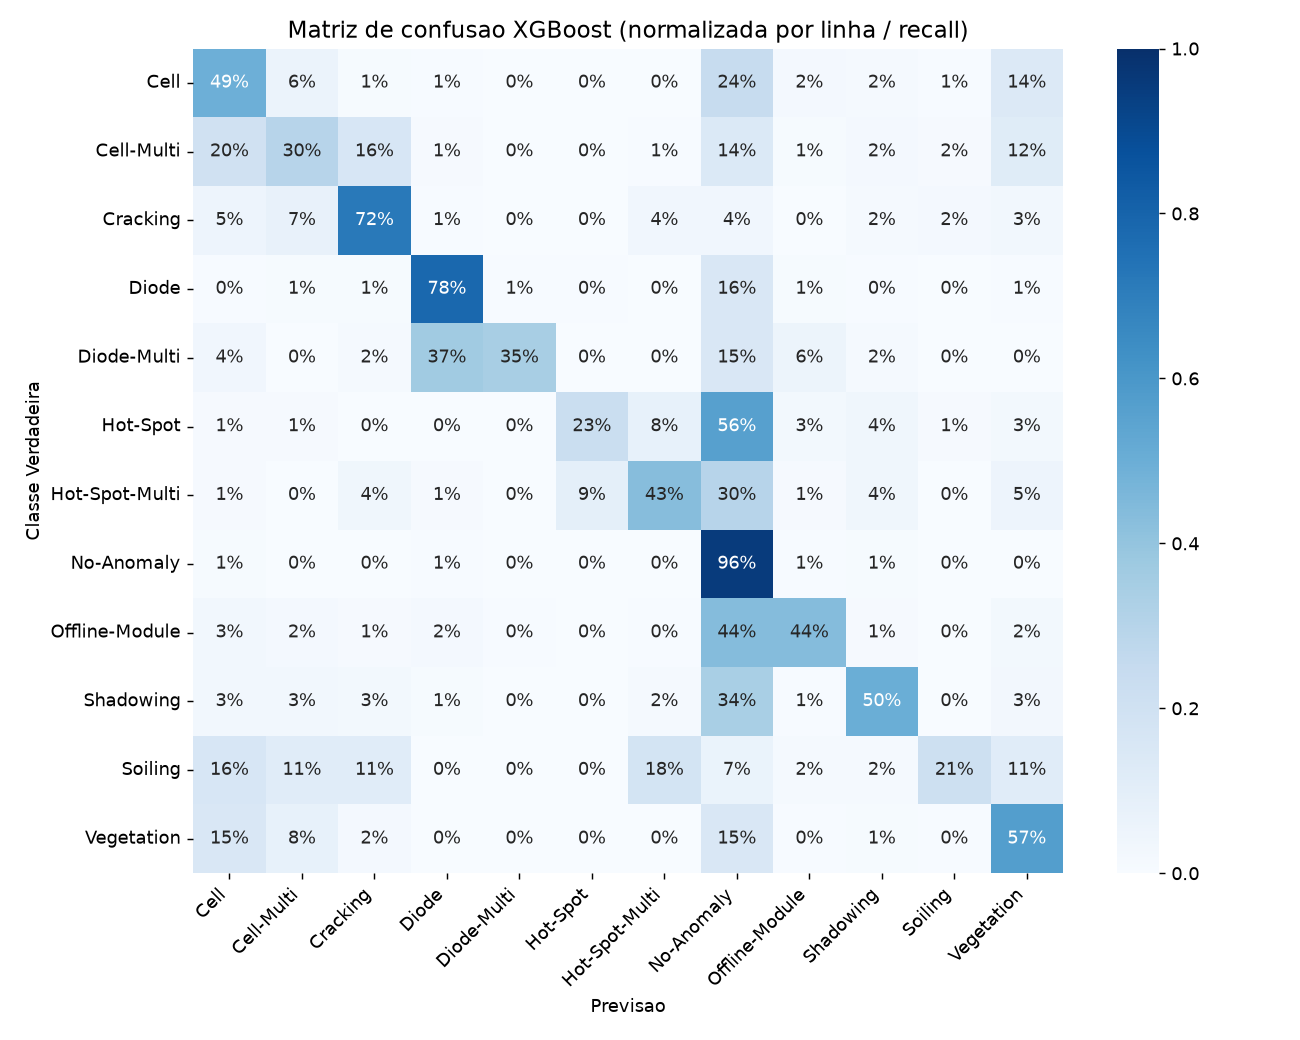
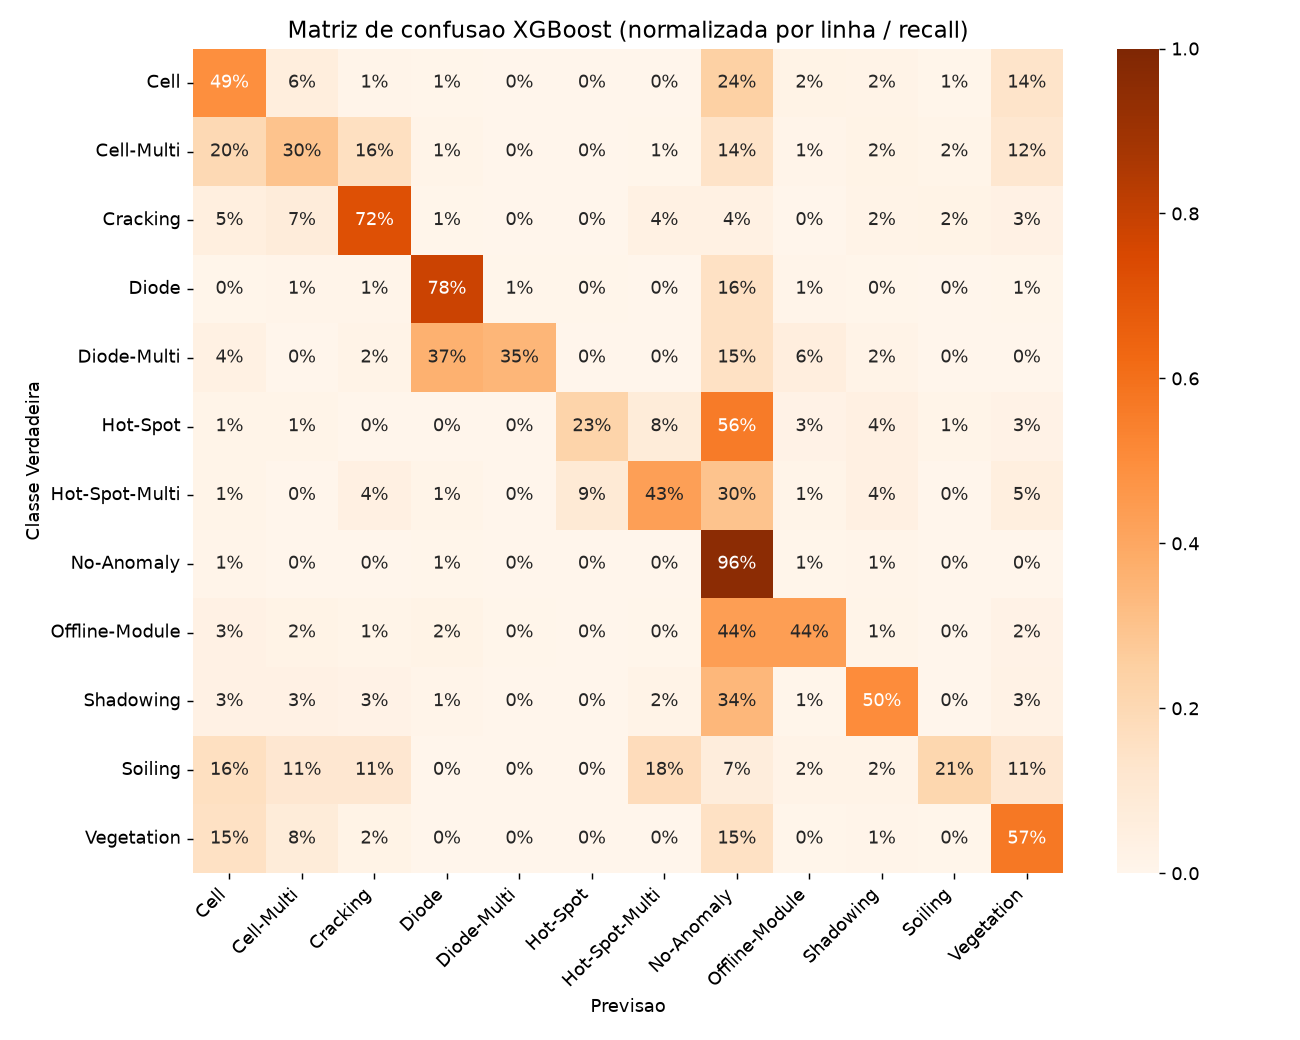
:lipstick: 3.6 top-5 confusions table + green/orange matrices

diff --git a/Relatorio_visao_computacional/relatorio.tex b/Relatorio_visao_computacional/relatorio.tex
@@ -416,30 +416,31 @@ Confirmado o \textit{XGBoost} como o melhor classificador (74,2\% de acurácia e
 	\label{fig:matriz_recall}
 \end{figure}
 
-A partir da matriz por linha, a Tabela \ref{tab:confusoes} resume, para cada classe, o seu acerto próprio (\textit{recall}) e a classe com a qual mais se confunde.
+A partir da matriz por linha, a Tabela \ref{tab:confusoes} resume, para cada classe, o seu acerto próprio (\textit{recall}) e as cinco classes com as quais mais se confunde.
 
 \begin{table}[H]
 	\centering
-	\caption{Maior confusão por classe (a partir da matriz de \textit{recall} do XGBoost).}
+	\caption{Cinco maiores confusões por classe (a partir da matriz de \textit{recall} do XGBoost).}
 	\label{tab:confusoes}
 	\vspace{0.2cm}
-	\renewcommand{\arraystretch}{1.2}
-	\begin{tabular}{l c l c}
+	\footnotesize
+	\renewcommand{\arraystretch}{1.3}
+	\begin{tabular}{l p{11.5cm}}
 		\hline
-		\textbf{Classe verdadeira} & \textbf{Acerto} & \textbf{Mais confunde com} & \textbf{\%} \\
+		\textbf{Classe (acerto)} & \textbf{5 maiores confusões} \\
 		\hline
-		Cell           & 49\% & No-Anomaly     & 24\% \\ \hline
-		Cell-Multi     & 30\% & Cell           & 20\% \\ \hline
-		Cracking       & 72\% & Cell-Multi     &  7\% \\ \hline
-		Diode          & 78\% & No-Anomaly     & 16\% \\ \hline
-		Diode-Multi    & 35\% & Diode          & 37\% \\ \hline
-		Hot-Spot       & 23\% & No-Anomaly     & 56\% \\ \hline
-		Hot-Spot-Multi & 43\% & No-Anomaly     & 30\% \\ \hline
-		No-Anomaly     & 96\% & Shadowing      &  1\% \\ \hline
-		Offline-Module & 44\% & No-Anomaly     & 44\% \\ \hline
-		Shadowing      & 50\% & No-Anomaly     & 34\% \\ \hline
-		Soiling        & 21\% & Hot-Spot-Multi & 18\% \\ \hline
-		Vegetation     & 57\% & Cell           & 15\% \\
+		Cell (49\%) & No-Anomaly 24\%, Vegetation 14\%, Cell-Multi 6\%, Offline-Module 2\%, Shadowing 2\% \\ \hline
+		Cell-Multi (30\%) & Cell 20\%, Cracking 16\%, No-Anomaly 14\%, Vegetation 12\%, Shadowing 2\% \\ \hline
+		Cracking (72\%) & Cell-Multi 7\%, Cell 5\%, No-Anomaly 4\%, Hot-Spot-Multi 4\%, Vegetation 3\% \\ \hline
+		Diode (78\%) & No-Anomaly 16\%, Offline-Module 1\%, Cracking 1\%, Cell-Multi 1\%, Vegetation 1\% \\ \hline
+		Diode-Multi (35\%) & Diode 37\%, No-Anomaly 15\%, Offline-Module 6\%, Cell 4\%, Shadowing 2\% \\ \hline
+		Hot-Spot (23\%) & No-Anomaly 56\%, Hot-Spot-Multi 8\%, Shadowing 4\%, Vegetation 3\%, Offline-Module 3\% \\ \hline
+		Hot-Spot-Multi (43\%) & No-Anomaly 30\%, Hot-Spot 9\%, Vegetation 5\%, Shadowing 4\%, Cracking 4\% \\ \hline
+		No-Anomaly (96\%) & Shadowing 1\%, Cell 1\%, Diode 1\%, Offline-Module 1\%, Hot-Spot-Multi 0\% \\ \hline
+		Offline-Module (44\%) & No-Anomaly 44\%, Cell 3\%, Vegetation 2\%, Diode 2\%, Cell-Multi 2\% \\ \hline
+		Shadowing (50\%) & No-Anomaly 34\%, Cell 3\%, Cell-Multi 3\%, Vegetation 3\%, Cracking 3\% \\ \hline
+		Soiling (21\%) & Hot-Spot-Multi 18\%, Cell 16\%, Vegetation 11\%, Cracking 11\%, Cell-Multi 11\% \\ \hline
+		Vegetation (57\%) & Cell 15\%, No-Anomaly 15\%, Cell-Multi 8\%, Cracking 2\%, Shadowing 1\% \\
 		\hline
 	\end{tabular}
 \end{table}

diff --git a/visao_classica_v6_36.py b/visao_classica_v6_36.py
@@ -182,10 +182,10 @@ print("XGB unico — acuracia: {:.1f}% | F1 macro: {:.1f}%".format(
     accuracy_score(y_te, pred) * 100, f1_score(y_te, pred, average="macro") * 100))
 
 
-def salva_matriz(norm, nome_png, titulo, xlabel):
+def salva_matriz(norm, nome_png, titulo, xlabel, cmap):
     cm = confusion_matrix(y_te, pred, labels=classes, normalize=norm)
     plt.figure(figsize=(10, 8))
-    sns.heatmap(cm, annot=True, fmt=".0%", cmap="Blues", vmin=0, vmax=1,
+    sns.heatmap(cm, annot=True, fmt=".0%", cmap=cmap, vmin=0, vmax=1,
                 xticklabels=classes, yticklabels=classes)
     plt.title(titulo, fontsize=13)
     plt.ylabel("Classe Verdadeira")
@@ -201,16 +201,17 @@ def salva_matriz(norm, nome_png, titulo, xlabel):
 # %%
 salva_matriz("pred", "matriz_xgb_precision.png",
              "Matriz de confusao XGBoost (normalizada por coluna / precision)",
-             "Previsao (coluna soma 100%)")
+             "Previsao (coluna soma 100%)", "Greens")
 cm_rec = salva_matriz("true", "matriz_xgb_recall.png",
                       "Matriz de confusao XGBoost (normalizada por linha / recall)",
-                      "Previsao")
+                      "Previsao", "Oranges")
 
 # %%
-# Tabela das maiores confusoes por classe (a classe com que mais confunde, fora a diagonal)
-print("\n--- LaTeX (maiores confusoes por classe) ---")
+# Tabela das 5 maiores confusoes por classe (fora a diagonal)
+print("\n--- LaTeX (top 5 confusoes por classe) ---")
 for i, real in enumerate(classes):
     fora = cm_rec[i].copy()
     fora[i] = 0
-    j = int(fora.argmax())
-    print(f"{real} & {cm_rec[i, i]*100:.0f}\\% & {classes[j]} & {fora[j]*100:.0f}\\% \\\\")
+    ordem = np.argsort(fora)[::-1][:5]
+    tops = ", ".join(f"{classes[j]} {fora[j]*100:.0f}\\%" for j in ordem if fora[j] > 0)
+    print(f"{real} ({cm_rec[i, i]*100:.0f}\\%) & {tops} \\\\")